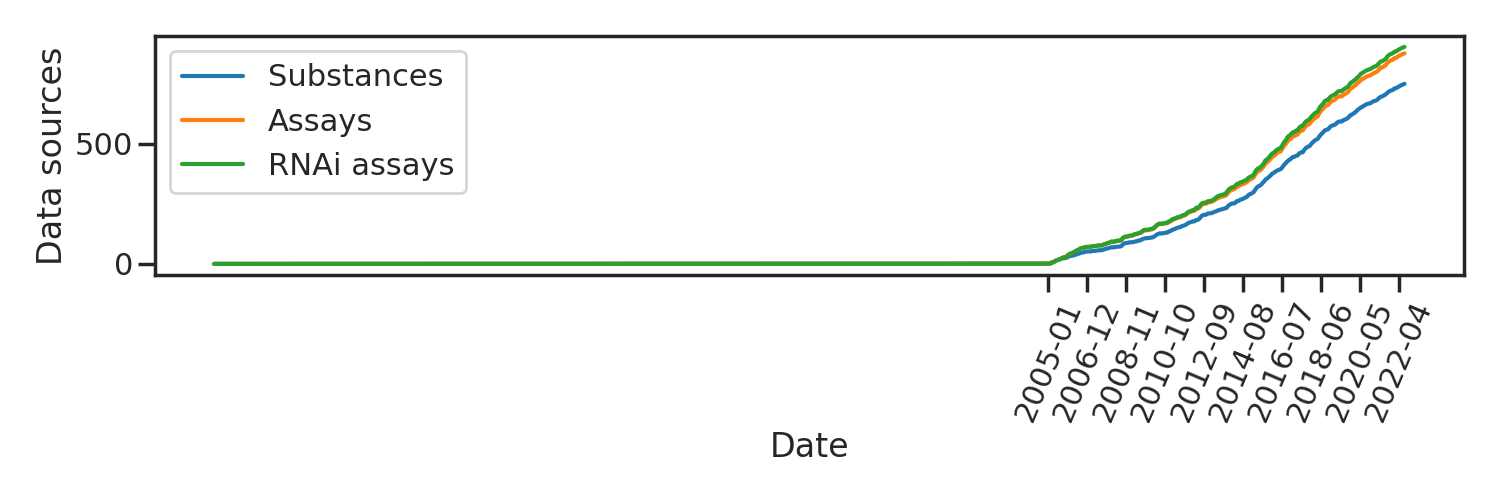
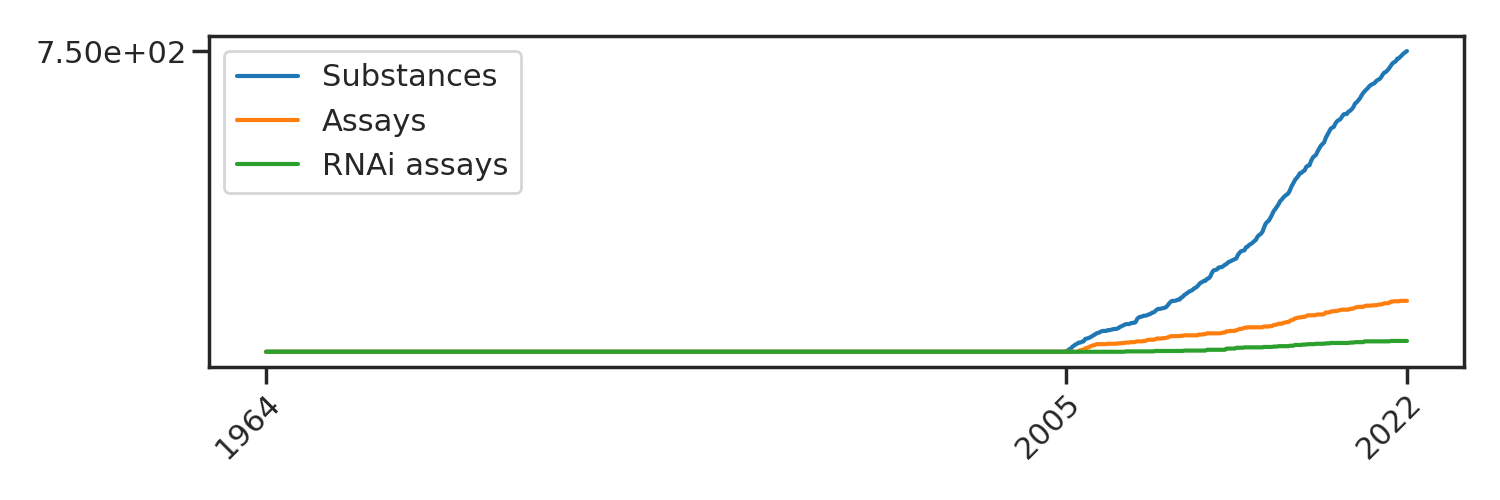
Finished plotting script

diff --git a/plot-entries.py b/plot-entries.py
@@ -88,13 +88,13 @@ RNAi_assay_dates, RNAi_assay_sources = load_pubchem_data(filename="./data/pubche
 # plot the PubChem data
 fig, ax = plt.subplots(1, 1, figsize=(15,5))
 ax.plot(substance_dates, substance_sources, label=f"Substances", color=palette2[0])
-ax.plot(substance_dates, substance_sources+assay_sources, label=f"Assays", color=palette2[1])
-ax.plot(substance_dates, substance_sources+assay_sources+RNAi_assay_sources, label=f"RNAi assays", color=palette2[2])
+ax.plot(assay_dates, assay_sources, label=f"Assays", color=palette2[1])
+ax.plot(RNAi_assay_dates, RNAi_assay_sources, label=f"RNAi assays", color=palette2[2])
 ax.legend()
-ax.set(xlabel="Date",
-       ylabel="Data sources",
-       xticks=substance_dates[1::23])
-ax.set_xticklabels(labels=substance_dates[1::23], rotation=67)
+ytick = max(substance_sources[-1], assay_sources[-1], RNAi_assay_sources[-1])
+ax.set(xticks=[substance_dates[i] for i in [0, 1, -1]], yticks=[ytick])
+ax.set_xticklabels(labels=[substance_dates[i].astype(object).year for i in [0, 1, -1]], rotation=45, ha="right", rotation_mode="anchor")
+ax.set_yticklabels(labels=[f"{ytick:.2e}"])
 fig.tight_layout()
 fig.savefig("pubchem-sources.png")
 
@@ -103,12 +103,13 @@ fig.savefig("pubchem-sources.png")
 chembl_versions, chembl_dates, chembl_compounds, chembl_activities, chembl_assays, chembl_targets, chembl_documents = load_chembl_data(filename="./data/chembl-documents.csv")
 
 # plot the PubChem data
-fig, ax = plt.subplots(1, 1, figsize=(12,6))
-ax.plot(chembl_dates, chembl_documents, color=palette2[3])
-ax.set(xlabel="Date",
-       ylabel="Documents",
-       xticks=chembl_dates[::2])
-ax.set_xticklabels(labels=chembl_dates[::2], rotation=67)
+fig, ax = plt.subplots(1, 1, figsize=(15,5))
+ax.plot(chembl_dates, chembl_documents, color=palette2[3], label="Documents")
+ax.legend()
+ytick = chembl_documents[-1]
+ax.set(xticks=[chembl_dates[i] for i in [0, 1, -1]], yticks=[ytick])
+ax.set_xticklabels(labels=[chembl_dates[i].astype(object).year for i in [0, 1, -1]], rotation=45, ha="right", rotation_mode="anchor")
+ax.set_yticklabels(labels=[f"{ytick:.2e}"])
 fig.tight_layout()
 fig.savefig("chembl-documents.png")
 
@@ -117,13 +118,13 @@ fig.savefig("chembl-documents.png")
 pdb_dates, pdb_total_entries, pdb_annual_entries = load_pdb_data(filename="./data/pdb-entries.csv")
 
 # plot the PDB data
-fig, ax = plt.subplots(1, 1, figsize=(12,6))
-x = np.arange(len(pdb_dates))
-ax.bar(x=x, height=pdb_total_entries, color=palette2[4], width=1, align="edge")
-ax.set(xlabel="Date",
-       ylabel="Entries",
-       xticks=x[::2])
-ax.set_xticklabels(labels=pdb_dates[::2], rotation=45)
+fig, ax = plt.subplots(1, 1, figsize=(15,5))
+ax.plot(pdb_dates, pdb_total_entries, color=palette2[4], label="Entries")
+ax.legend()
+ytick = pdb_total_entries[-1]
+ax.set(xticks=[pdb_dates[i] for i in [0, 1, -1]], yticks=[ytick])
+ax.set_xticklabels(labels=[pdb_dates[i].astype(object).year for i in [0, 1, -1]], rotation=45, ha="right", rotation_mode="anchor")
+ax.set_yticklabels(labels=[f"{ytick:.2e}"])
 fig.tight_layout()
 fig.savefig("pdb-entries.png")
 
@@ -132,12 +133,12 @@ fig.savefig("pdb-entries.png")
 csd_dates, csd_structures, csd_ave_n_atoms_per_structure = load_csd_data(filename="./data/csd-structures.csv")
 
 # plot the CSD data
-fig, ax = plt.subplots(1, 1, figsize=(12,6))
-x = np.arange(len(csd_dates))
-ax.bar(x=x, height=np.cumsum(csd_structures), color=palette2[5], width=1, align="edge")
-ax.set(xlabel="Date",
-       ylabel="Structures",
-       xticks=x[::2])
-ax.set_xticklabels(labels=csd_dates[::2], rotation=45)
+fig, ax = plt.subplots(1, 1, figsize=(15,5))
+ax.plot(csd_dates, np.cumsum(csd_structures), color=palette2[5], label="Structures")
+ax.legend()
+ytick = np.cumsum(csd_structures)[-1]
+ax.set(xticks=[csd_dates[i] for i in [0, -1]], yticks=[ytick])
+ax.set_xticklabels(labels=[csd_dates[i].astype(object).year for i in [0, -1]], rotation=45, ha="right", rotation_mode="anchor")
+ax.set_yticklabels(labels=[f"{ytick:.2e}"])
 fig.tight_layout()
 fig.savefig("csd-structures.png")
